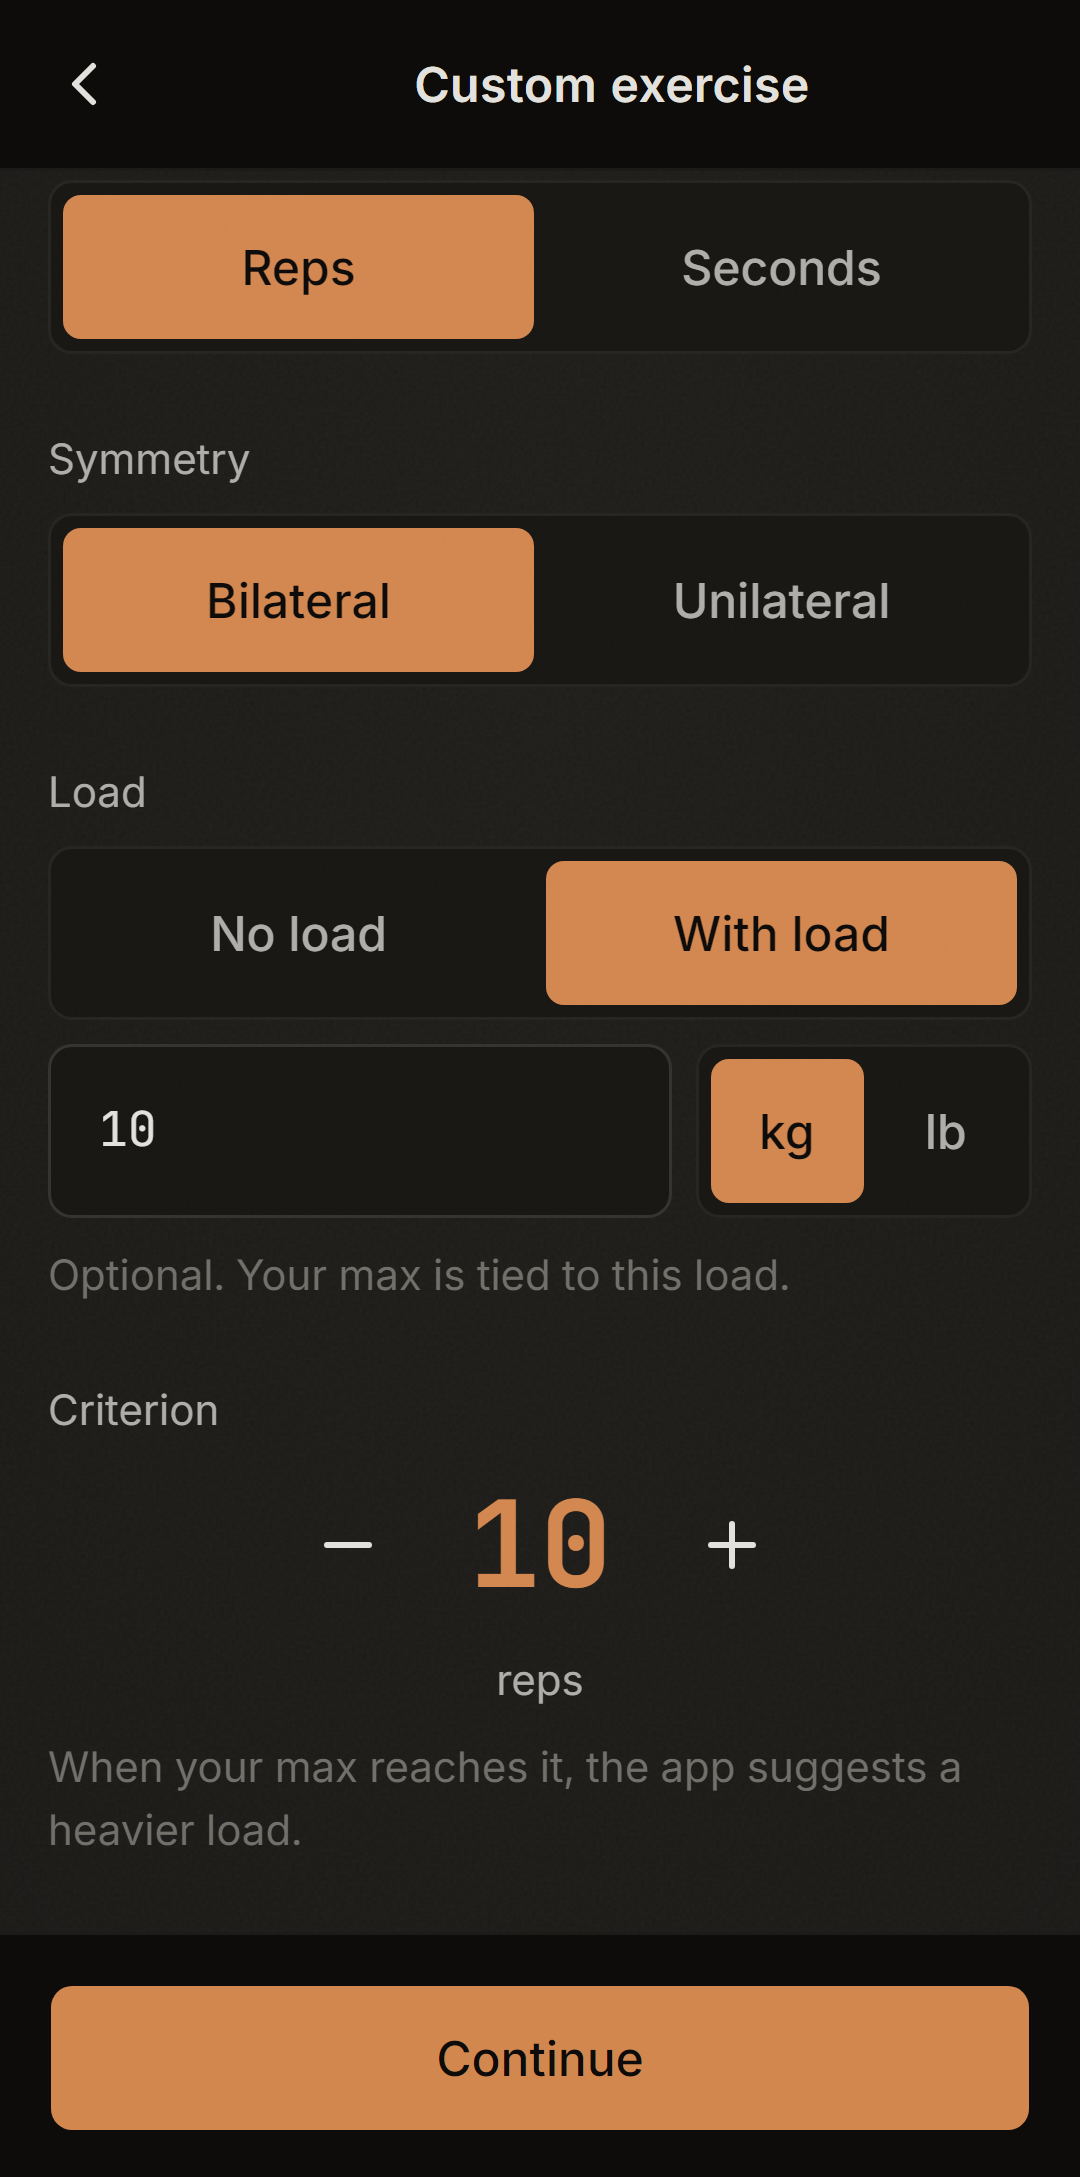
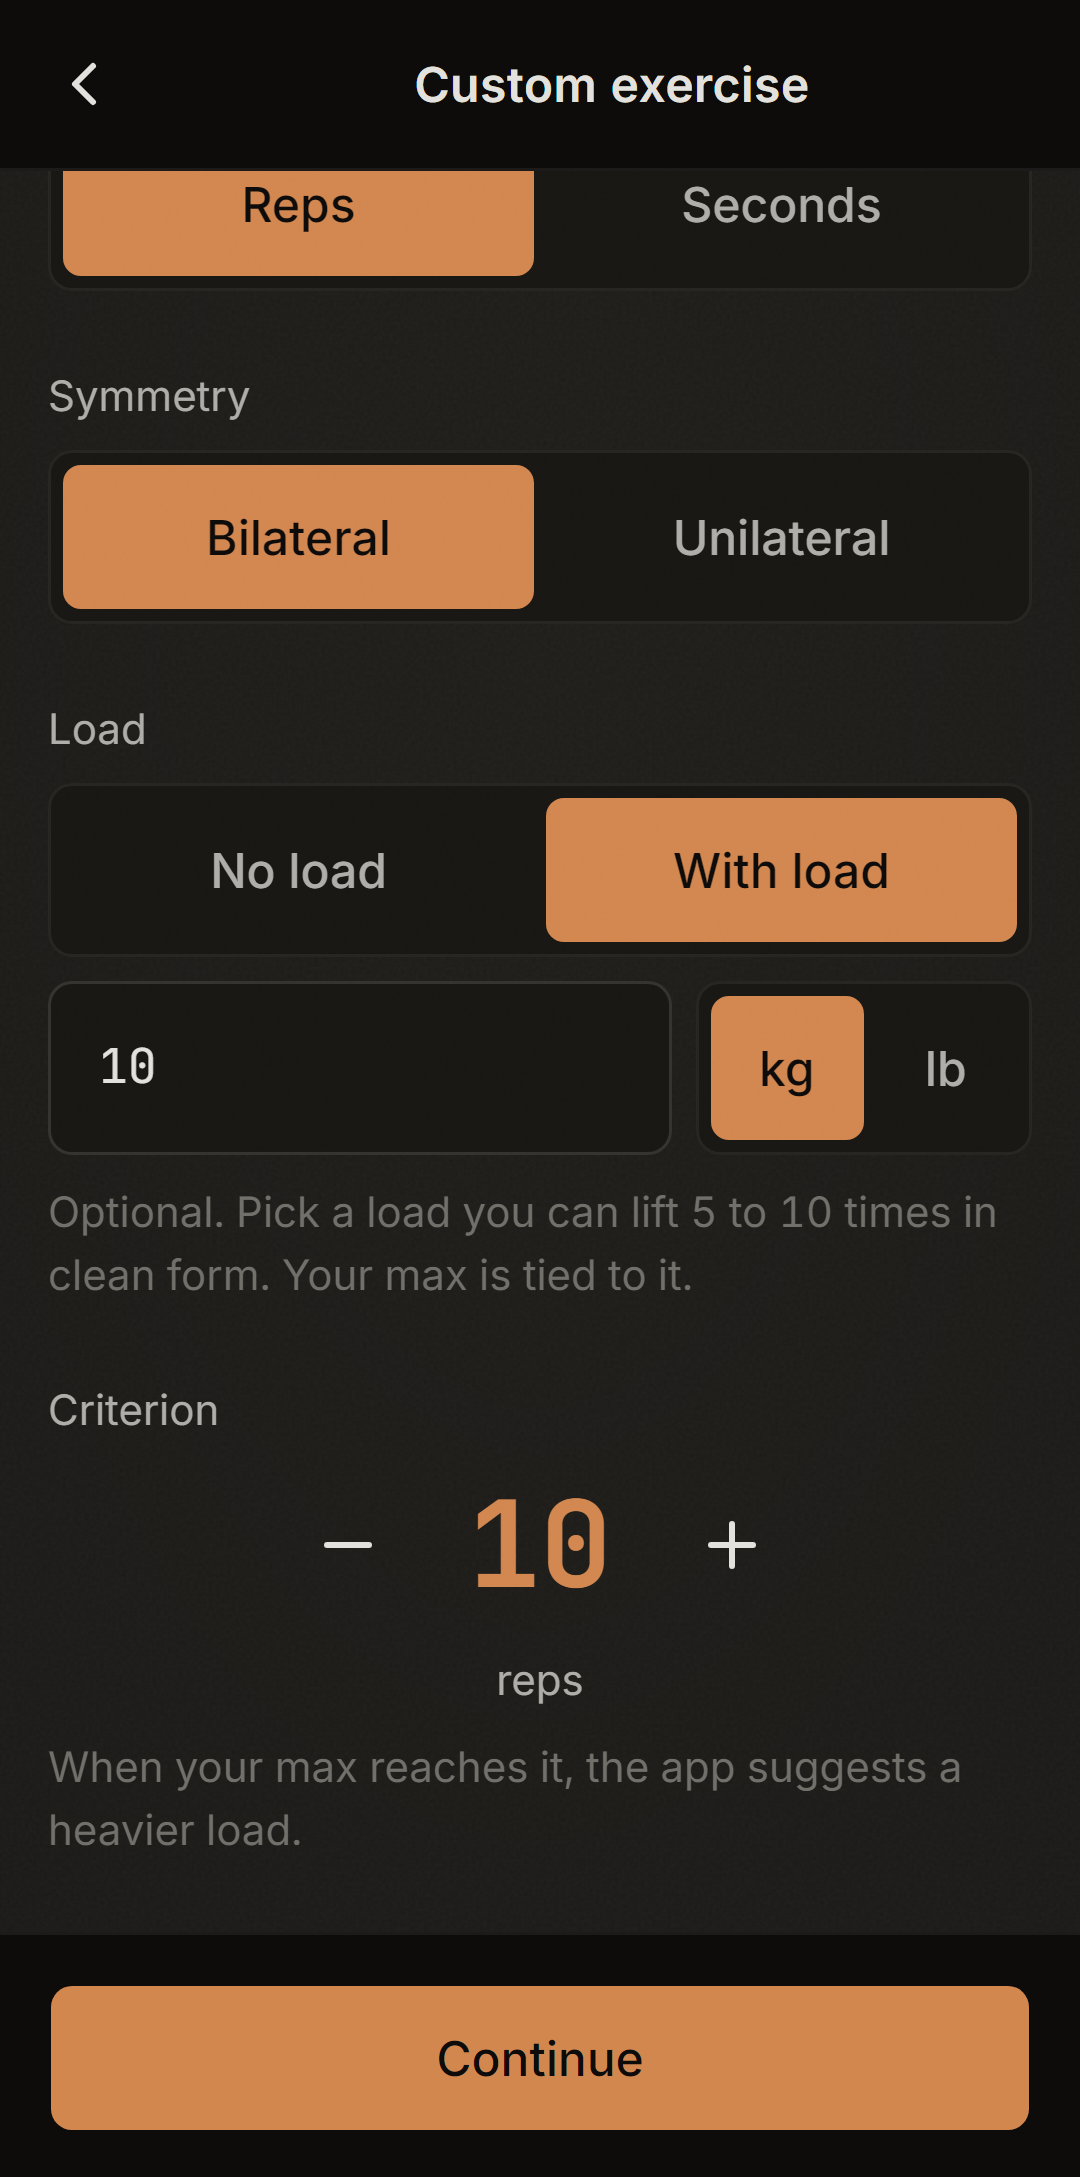
copy: align site with app rules v2 (qualireps-v2 @ 810f662)
The check set (as many clean reps as possible, 2 kept in reserve,
max = reps + 2, no 24 h rest) becomes the recommended way to set a max;
the full test stays, with 24 h of recovery. Positioning: QualiReps never
asks you to train to failure, not even to measure your max.

- home: hero, meta, The rest, Your max, research note, FAQ, Calm by
  design, Why I built it; new alt texts for screenshots 06 and 08
- how-it-works: max section (four ways, cap +2, 5-10 reps, holds and
  maxes under 3), 0 well below the max, Checks and tests, Trigger A,
  breaks, load warning, past-set bound; hard-sets rule removed
- offer, privacy: "check sets", "maxes"
- form guides re-synced from qualireps-v2 @ 810f662
- PRODUCT_STATE refreshed; AUDIT-2026-10-15 marked superseded

diff --git a/src/lib/offer.ts b/src/lib/offer.ts
@@ -7,7 +7,7 @@
 export const FREE_FEATURES = [
   'One active exercise, on any path, with every level of that path',
   'Archive it and start another at any time',
-  'Max tests, set sizes, rest, history, export and backup',
+  'Check sets, set sizes, rest, history, export and backup',
   'All form guides',
 ];
 

diff --git a/docs/PRODUCT_STATE.md b/docs/PRODUCT_STATE.md
@@ -1,6 +1,6 @@
 # Product State — qualireps-site (the landing)
 
-_Snapshot derived from the repository on 2026-10-13. Items that could not be
+_Snapshot derived from the repository on 2026-11-14. Items that could not be
 confirmed from code or git are marked **(to verify)**._
 
 ## 1. What this repo is
@@ -14,8 +14,12 @@ of serverless endpoints for Paddle checkout fulfillment.
 
 ## 2. Status
 
-- **Last commit (main):** `415ba60` — _Chore/remove notification copy (#7)_ —
-  2026-08-09. Repositioning work is in progress on `copy/repositioning`.
+- **Last commit (main):** `97fb7e0` — _copy: align site with app lot B
+  (qualireps-v2 @ e004800)_ — 2026-11-04. Copy and form guides are being
+  aligned with the app's rules v2 (qualireps-v2 @ 810f662): the check set
+  (as many clean reps as possible, 2 kept in reserve, max = reps + 2, no 24 h
+  rest) is the recommended way to set a max; the full test stays, with 24 h
+  of recovery.
 - **Live in prod?** The repo is wired for Vercel (`@astrojs/vercel` adapter +
   `vercel.json` headers) and the production origin is `https://qualireps.app`.
   Actual deployment/DNS being live **(to verify)** — not confirmable from the
@@ -28,8 +32,9 @@ of serverless endpoints for Paddle checkout fulfillment.
 Pages (`src/pages/`):
 - `/` — home: the strength ledger (sections 0–10 of qualireps-v2's
   `qualireps-audit/Landing page textes.md`), three-platform install block.
-- `/how-it-works` — the exact rules (max, set range, reserve and rest, recovery,
-  levels and loads, past sets, rest days), checked against the app code.
+- `/how-it-works` — the exact rules (max and check sets, set range, reserve and
+  rest, full tests and recovery, breaks, levels and loads, past sets, rest
+  days), checked against the app code (qualireps-v2 @ 810f662).
 - `/pricing` — single-story pricing (9,99 €, lifetime, no subscription).
 - `/buy` — Paddle checkout overlay (gated by `CHECKOUT_LIVE`).
 - `/thanks` — purchase success page; surfaces the issued license key.
@@ -62,9 +67,6 @@ Form content is synced (committed) from the `qualireps-v2` app repo via
 ## 4. In progress / pending
 
 - **No open TODO/FIXME markers** in `src/`.
-- **Branches:** only `main` and `copy/repositioning` exist, locally and on
-  `origin`. The seven leftover source branches of squash-merged PRs (#1–#7)
-  were deleted on 2026-10-12.
 - Pre-launch placeholders still open (see README): real `PLAY_PACKAGE_NAME`
   (only needed for V1.5 Play TWA), designed OG image, official Play badge art.
 

diff --git a/src/content/forms/hero-paths/pull/assisted-one-arm-pull-up.md b/src/content/forms/hero-paths/pull/assisted-one-arm-pull-up.md
@@ -17,7 +17,7 @@ This level is to the one-arm pull-up what the foot-assisted pull-up (level 6) is
 
 ## Set-up — pick one assist convention and keep it
 - **Working hand** pronated on the bar, thumb wrapped.
-- **Free-hand help** (choose one, keep it for max tests and daily sets):
+- **Free-hand help** (choose one, keep it for daily sets and whenever you set your max):
   - *Band:* loop a band over the bar, grip it with the free hand — higher grip = more help, lower = less.
   - *Towel / strap:* hang one from the bar, free hand grips it lower than the working hand.
   - *Fingers:* free hand holds the working forearm — fewer fingers = less help.
@@ -38,8 +38,8 @@ Exhale on the pull, inhale on the lower.
 - **Uneven sides** → match reps, weaker side first.
 
 ## Within the level
-- *Harder:* less help — lower the band grip, lower the towel hand, or drop a finger. Re-test your max when you change the help.
+- *Harder:* less help — lower the band grip, lower the towel hand, or drop a finger. Check your max again when you change the help.
 - *Easier:* more help — higher band grip, raise the towel hand, or more fingers.
 
 ## Dose
-Set your assist convention, test your max on each side at that convention, then practice in a range: from half of the weaker side (rounded down) to its max minus 3, always leaving at least 2 reps in reserve, same count both sides, weaker side first. When you can do clean reps at minimal help, you're ready for the one-arm pull-up.
+Set your assist convention, then set your max on each side at that convention with a check set: as many clean reps as you can, keeping 2 in reserve. Then practice in a range: from half of the weaker side (rounded down) to its max minus 3, always leaving at least 2 reps in reserve, same count both sides, weaker side first. When you can do clean reps at minimal help, you're ready for the one-arm pull-up.

diff --git a/src/content/forms/hero-paths/squat/free-pistol.md b/src/content/forms/hero-paths/squat/free-pistol.md
@@ -30,7 +30,7 @@ Inhale on the descent, exhale on the drive up; a brief brace at the bottom is na
 ## Watch for
 - **Bouncing or rocking at the bottom** → a controlled pause is the standard, no momentum.
 - **Free leg dropping** → hip flexor fatigue; set is over.
-- **Backward or forward fall** → not fully consolidated; return to level 9, use a fingertip if needed, rebuild, re-test.
+- **Backward or forward fall** → not fully consolidated; return to level 9, use a fingertip if needed, rebuild, then check your max again.
 - **Heel lifting** → residual ankle limitation under fatigue.
 
 ## Within the level
@@ -42,4 +42,4 @@ The endpoint stays active after the criterion is met.
 > **A note on anatomy.** The strict free pistol is partly a question of body proportions. Longer femurs relative to the shins, or stubborn ankle-mobility limits, can make it mechanically hard regardless of strength. If it stalls after long practice and honest ankle work, that may be anatomy, not a training failure — a lasting practice at the counterweight levels (7–8) is a legitimate strength endpoint in its own right. The strict free pistol is one valid endpoint, not the only one.
 
 ## Dose
-Test a clean max per side, then practice in a range: from half of the weaker side (rounded down) to its max minus 3, always leaving at least 2 reps in reserve, same count both sides, weaker side first. At a 3-rep criterion, the daily set is typically 1 clean rep per side.
+Set your max per side with a check set: as many clean reps as you can, keeping 2 in reserve. Then practice in a range: from half of the weaker side (rounded down) to its max minus 3, always leaving at least 2 reps in reserve, same count both sides, weaker side first. At a 3-rep criterion, the daily set is typically 1 clean rep per side.

diff --git a/src/content/forms/hero-paths/squat/pistol-heavy-counterweight-heel-elevated.md b/src/content/forms/hero-paths/squat/pistol-heavy-counterweight-heel-elevated.md
@@ -38,4 +38,4 @@ Inhale on the descent, exhale on the drive up. A brief brace at the bottom is fi
 - *Easier:* taller block; heavier counterweight; a fingertip on a side support for balance.
 
 ## Dose
-Set your block and counterweight, test a clean max per side at that setting, then practice in a range: from half of the weaker side (rounded down) to its max minus 3, always leaving at least 2 reps in reserve, same count both sides, weaker side first. Keep the block and weight fixed across max tests and daily sets; reduce them deliberately, then re-test.
+Set your block and counterweight, then set your max per side at that setting with a check set: as many clean reps as you can, keeping 2 in reserve. Then practice in a range: from half of the weaker side (rounded down) to its max minus 3, always leaving at least 2 reps in reserve, same count both sides, weaker side first. Keep the block and weight fixed for daily sets and whenever you set your max; reduce them deliberately, then check your max again.

diff --git a/src/content/forms/hero-paths/squat/single-leg-box-squat-low.md b/src/content/forms/hero-paths/squat/single-leg-box-squat-low.md
@@ -37,4 +37,4 @@ Inhale on the descent, exhale on the drive up.
 - *Easier:* raise the surface (back toward the chair); fingertip on a side support.
 
 ## Dose
-Test a clean max per side, then practice in a range: from half of the weaker side (rounded down) to its max minus 3, always leaving at least 2 reps in reserve, same count both sides, weaker side first. If progress stalls here despite weeks of practice, the limiter is usually ankle mobility, not strength — keep the chair box as the working level while the ankle opens up.
+Set your max per side with a check set: as many clean reps as you can, keeping 2 in reserve. Then practice in a range: from half of the weaker side (rounded down) to its max minus 3, always leaving at least 2 reps in reserve, same count both sides, weaker side first. If progress stalls here despite weeks of practice, the limiter is usually ankle mobility, not strength — keep the chair box as the working level while the ankle opens up.

diff --git a/src/content/forms/hero-paths/pull/one-arm-pull-up.md b/src/content/forms/hero-paths/pull/one-arm-pull-up.md
@@ -40,4 +40,4 @@ The endpoint stays active after the criterion is met.
 - *Easier:* drop back to the one-arm lock-off (level 11) for the top hold and controlled descent, or re-introduce a touch of free-hand help (the assisted level's convention).
 
 ## Dose
-Test a clean max on each side, then practice in a range: from half of the weaker side (rounded down) to its max minus 3, always leaving at least 2 reps in reserve, same count both sides, weaker side first. At the endpoint the daily set is typically a single clean rep per side. Stop well short of form breakdown.
+Set your max on each side with a check set: as many clean reps as you can, keeping 2 in reserve. Then practice in a range: from half of the weaker side (rounded down) to its max minus 3, always leaving at least 2 reps in reserve, same count both sides, weaker side first. At the endpoint the daily set is typically a single clean rep per side. Stop well short of form breakdown.

diff --git a/src/content/forms/hero-paths/squat/pistol-heavy-counterweight-heel-flat.md b/src/content/forms/hero-paths/squat/pistol-heavy-counterweight-heel-flat.md
@@ -38,4 +38,4 @@ Inhale on the descent, exhale on the drive up; brief brace at the bottom is fine
 - *Easier:* re-introduce a small heel block (back to level 6); a fingertip for balance.
 
 ## Dose
-Test a clean max per side, then practice in a range: from half of the weaker side (rounded down) to its max minus 3, always leaving at least 2 reps in reserve, same count both sides, weaker side first. If this stalls for weeks, the cause is almost always ankle mobility — hold level 6 as the strength level and work the ankle in parallel.
+Set your max per side with a check set: as many clean reps as you can, keeping 2 in reserve. Then practice in a range: from half of the weaker side (rounded down) to its max minus 3, always leaving at least 2 reps in reserve, same count both sides, weaker side first. If this stalls for weeks, the cause is almost always ankle mobility — hold level 6 as the strength level and work the ankle in parallel.

diff --git a/src/content/forms/hero-paths/squat/pistol-light-counterweight.md b/src/content/forms/hero-paths/squat/pistol-light-counterweight.md
@@ -38,4 +38,4 @@ Inhale on the descent, exhale on the drive up; brief brace at the bottom is fine
 - *Easier:* a bit more counterweight (toward level 7); a fingertip for balance.
 
 ## Dose
-Test a clean max per side, then practice in a range: from half of the weaker side (rounded down) to its max minus 3, always leaving at least 2 reps in reserve, same count both sides, weaker side first. Expect this to feel harder than the small weight change suggests — losing the heavy weight's balancing effect is the real step.
+Set your max per side with a check set: as many clean reps as you can, keeping 2 in reserve. Then practice in a range: from half of the weaker side (rounded down) to its max minus 3, always leaving at least 2 reps in reserve, same count both sides, weaker side first. Expect this to feel harder than the small weight change suggests — losing the heavy weight's balancing effect is the real step.

diff --git a/src/content/forms/hero-paths/pull/australian-pull-up-low-angle.md b/src/content/forms/hero-paths/pull/australian-pull-up-low-angle.md
@@ -37,6 +37,6 @@ Exhale on the pull, inhale on the lower.
 - *Easier:* feet a small step back, or a higher bar.
 
 ## Dose
-Test your max in clean form, then practice in a range: from half of it (rounded down) to your max minus 3, always leaving at least 2 reps in reserve. Clean reps over count — at this load the difference is what makes level 6 reachable.
+Set your max with a check set: as many clean reps as you can, keeping 2 in reserve. Then practice in a range: from half of it (rounded down) to your max minus 3, always leaving at least 2 reps in reserve. Clean reps over count — at this load the difference is what makes level 6 reachable.
 
 *No adjustable bar? Keep the level-3 bar and raise your heels on a box or low bench about 35 cm high to reach ~15°. Walking the feet forward does not work: the chest can no longer reach the bar, the neck gets there first.*

diff --git a/src/content/forms/hero-paths/push/one-arm-self-assisted-push-up.md b/src/content/forms/hero-paths/push/one-arm-self-assisted-push-up.md
@@ -40,4 +40,4 @@ Brace and inhale before the descent; decisive sharp exhale through the press.
 - *Easier:* increase the contact slightly (more of the fingers on the floor). Use 3 s descents to build strength at the bottom range.
 
 ## Dose
-Test a clean max on each side (with the current level of fingertip assist); work in a range: from half of the weaker side (rounded down) to its max minus 3, always leaving at least 2 reps in reserve, same count both sides, weaker side first. Stop each set well short of failure.
+Set your max on each side with a check set, at the current level of fingertip assist: as many clean reps as you can, keeping 2 in reserve. Work in a range: from half of the weaker side (rounded down) to its max minus 3, always leaving at least 2 reps in reserve, same count both sides, weaker side first. Stop each set well short of failure.

diff --git a/src/content/forms/hero-paths/push/wall-push-up.md b/src/content/forms/hero-paths/push/wall-push-up.md
@@ -49,4 +49,4 @@ Inhale and brace at the top, hold the brace on the way down, exhale as you press
 
 ## Dose
 
-Test a clean max; work in a range: from half of it (rounded down) to your max minus 3, always leaving at least 2 reps in reserve. Stop each set well short of failure. If your max is 2 or fewer, step closer to the wall and test again, or practice slow lowering only (3–5 s down, then step back to the start) until your max grows.
+Set your max with a check set: as many clean reps as you can, keeping 2 in reserve. Work in a range: from half of it (rounded down) to your max minus 3, always leaving at least 2 reps in reserve. Stop each set well short of failure. If your max is 2 or fewer, step closer to the wall and check your max again, or practice slow lowering only (3–5 s down, then step back to the start) until your max grows.
